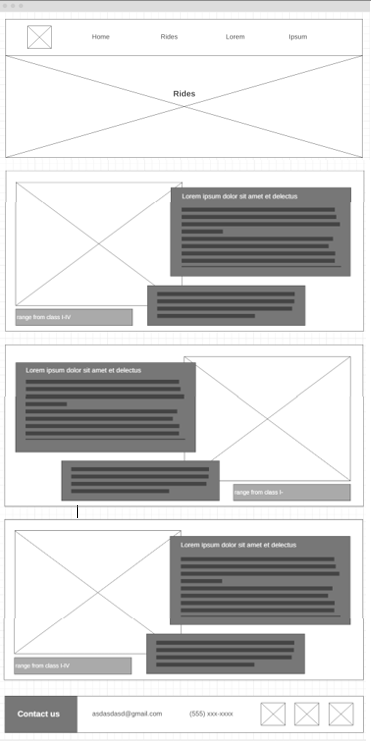
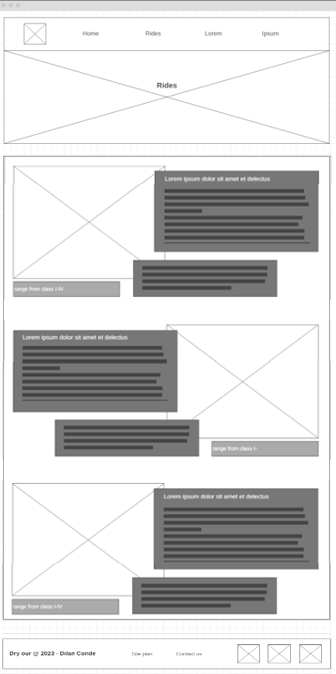
W09 Assignment: Completed Rafting Site Subpage

diff --git a/wdd130/wrr/rivers.html b/wdd130/wrr/rivers.html
@@ -1,0 +1,95 @@
+<!DOCTYPE html>
+<html lang="en">
+<head>
+    <meta charset="UTF-8">
+    <meta name="viewport" content="width=device-width, initial-scale=1.0">
+    <title>Whitewater Rafting Vacations | Dry Oar Boating | Home</title>
+    <link type="text/css" rel="stylesheet" href="styles/style.css">
+</head>
+<body>
+    <div id="content">
+        <header>
+            <a id="logo_link" href="index.html">
+                <img class="logo" src="images/logo.png" alt="Dry Oar Logo">
+            </a>
+            <nav>
+                <a href="index.html">Home</a>
+                <a href="rivers.html">Rivers</a>
+                <a href="site-plan-rafting.html">Site Plan</a>
+                <a href="contactus.html">Contact Us</a>
+            </nav>
+        </header>
+        <div id="hero">
+            <div id="hero-box">
+                <img id="hero-img" src="images/river.jpeg" alt="People enjoying rafting">
+            </div>
+            <section id="hero-msg">
+                <h1 class="home-title">RIVERS</h1>
+                <div class="button-box">
+                    <a class="book" href="contactus.html">Book Now</a>
+                </div>
+            </section>
+        </div>
+
+        <main class="rivers-grid">
+
+            <div id="idaho"></div> 
+            <img class="salmon" src="images/main-fork-of-the-salmon-river-Idaho.jpg" alt="salmon idaho">
+            <section class="a">
+                <h2>Main Fork of the Salmon River, Idaho</h2>
+                <p>The Salmon River, located deep within the Frank Church Wilderness of No Return Nature Preserve, is a place that has captivated many. Those who live near the river, known locally as the River of No Return, often find themselves so enamored with its wild beauty that they decide to stay forever. The surrounding landscape is home to herds of elk and deer, and it is not uncommon to spot bears and bighorn sheep. In addition, majestic ponderosa pines line the river, providing shade on the sandy beaches of the campgrounds and protection from sun or rain.</p>
+            </section>
+            <section class="b">
+                <p class="two">The Salmon River is one of the longest rivers in the United States that has not been interrupted by dams. Its flow varies with the seasons, being higher, faster and cooler in early summer, and lower, slower and warmer in late summer. Although the river offers exciting rapids throughout the summer, families with children often prefer the calmer, warmer waters of late summer for swimming.</p>
+            </section>
+            <section class="c">
+                <h3 class="three">The rapids range from class I to IV.</h3>
+            </section>
+
+            <div id="utah"></div> 
+            <img class="canyon" src="images/desolation-and-gray-canyon-utah.jpg" alt="canyon utah">
+            <section class="d">
+                <h2>Desolation and Gray Canyon, Utah</h2>
+                <p>The Green River, which glides through the canyons in the heart of Utah, flows through some of the most inhospitable regions in existence, until it joins the mighty Colorado River and finally the sea. This river, famous for its towering gray rock cliffs, breathtaking desert scenery and thrilling rapids, offers an 84-mile journey that stretches from Sand Wash to Swaseys Rapid, located near Green River, Utah.</p>
+            </section>
+            <section class="e">
+                <p class="two">This place is characterized by extraordinary scenery, fascinating geological formations, evidence of both prehistoric and historic human activity, and excellent opportunities for whitewater sports. Desolation Canyon has received National Monument status, a recognition that is due to its uniqueness and deep history.</p>
+            </section>
+            <section class="f">
+                <h3 class="three">Desolation is rated a Class II/III and is usually done in 6 days.</h3>
+            </section>
+
+            <div id="arizona"></div> 
+            <img class="grand" src="images/grand-canyon-arizona.jpg" alt="grand arizona">
+            <section class="g">
+                <h2>Grand Canyon, Arizona</h2>
+                <p>The Grand Canyon is considered the progenitor of all canyons and all river adventures. A visit to the Grand Canyon is an experience that will live long in your memory. Grand Canyon rafting offers a combination of thrilling whitewater and spectacular scenery, providing a once-in-a-lifetime experience. In addition to the thrilling rapids, the canyon is home to secondary canyons and ancient Indian ruins, which can only be reached by river.</p>
+            </section>
+            <section class="h">
+                <p class="two">The Grand Canyon has its own river rating scale, ranging from I - X, to reflect the diversity of its rapids. Despite this, reference is also made to the standard I - V river rating scale, which is more familiar to most people.</p>
+            </section>
+            <section class="i">
+                <h3 class="three">The rapids range from class I to X.</h3>
+            </section>
+
+        </main>
+
+        <footer>
+            <p>Dry Oar &copy; 2023 - Dilan Conde</p>
+            <p><a href="site-plan-rafting.html">Site Plan</a></p>
+            <p><a href="contactus.html">Contact Us</a></p>
+            <div class="social">
+                <a href="https://facebook.com" target="_blank">
+                    <img src="images/facebook.png" alt="fb icon">
+                </a>
+                <a href="https://twitter.com" target="_blank">
+                    <img src="images/twitter.png" alt="twitter icon">
+                </a>
+                <a href="https://instagram.com" target="_blank">
+                    <img src="images/instagram.png" alt="instagram icon">
+                </a>
+            </div>
+        </footer>
+    </div>
+</body>
+</html>

diff --git a/wdd130/wrr/styles/style.css b/wdd130/wrr/styles/style.css
@@ -69,6 +69,11 @@ h4 {
     font-size: .8em;
     padding-bottom: 15px;
 }
+.rivers-grid h3, h2 {
+    color: #14213D;
+    font-family: 'Croissant One', Georgia, serif;
+}
+
 footer a:hover {
     color: #fca311;
 }
@@ -219,6 +224,161 @@ nav {
     box-shadow: 5px 5px 10px #6f7364;
 }
 
+
+.rivers-grid {
+    display: grid;
+    grid-template-columns: repeat(20, 1fr);
+}
+
+#idaho {
+    background-color:#e5e5e5;
+    height: 800px;
+    grid-column: 1/21;
+    grid-row: 1/14;
+}
+
+.salmon {
+    width: 100%;
+    grid-column: 2/14;
+    grid-row: 2/10;
+    box-shadow: 5px 5px 10px #6f7364;
+}
+
+.a {
+    background-color:#fca311;
+    line-height: 0.9em;
+    padding: 30px;
+    grid-column: 12/20;
+    grid-row: 3/6;
+    box-shadow: 5px 5px 10px #6f7364;
+    z-index: 1;
+    color: #14213D;
+}
+
+.b {
+    background-color:#fca311;
+    line-height: 1em;
+    padding: 30px;
+    grid-column: 11/19;
+    grid-row: 7/13;
+    box-shadow: 5px 5px 10px #6f7364;
+    margin-top: 50px;
+    z-index: 1;
+    color: #14213D;
+}
+
+.c {
+    background-color:#fca311;
+    line-height: 1.5em;
+    padding: 10px;
+    grid-column: 2/10;
+    grid-row: 10/13;
+    box-shadow: 5px 5px 10px #6f7364;
+    margin-top: 20px;
+    color: #14213D;
+}
+
+
+
+
+#utah {
+    background-color:#e5e5e5;
+    height: 900px;
+    grid-column: 1/21;
+    grid-row: 15/28;
+}
+
+.canyon {
+    width: 100%;
+    grid-column: 8/20;
+    grid-row: 16/24;
+    box-shadow: 5px 5px 10px #6f7364;
+}
+
+.d {
+    background-color:#fca311;
+    line-height: 1.5em;
+    padding: 30px;
+    grid-column: 2/10;
+    grid-row: 17/20;
+    box-shadow: 5px 5px 10px #6f7364;
+    z-index: 1;
+    color: #14213D;
+}
+
+.e {
+    background-color:#fca311;
+    line-height: 1.5em;
+    padding: 30px;
+    grid-column: 3/11;
+    grid-row: 21/27;
+    box-shadow: 5px 5px 10px #6f7364;
+    margin-top: 50px;
+    z-index: 1;
+    color: #14213D;
+}
+
+.f {
+    background-color:#fca311;
+    line-height: 1.5em;
+    padding: 10px;
+    grid-column: 12/20;
+    grid-row: 24/27;
+    box-shadow: 5px 5px 10px #6f7364;
+    margin-top: 50px;
+    color: #14213D;
+}
+
+
+
+
+#arizona {
+    background-color:#e5e5e5;
+    height: 900px;
+    grid-column: 1/21;
+    grid-row: 29/42;
+}
+
+.grand {
+    width: 100%;
+    grid-column: 2/14;
+    grid-row: 30/38;
+    box-shadow: 5px 5px 10px #6f7364;
+}
+
+.g {
+    background-color:#fca311;
+    line-height: 1.2em;
+    padding: 35px;
+    grid-column: 12/20;
+    grid-row: 31/34;
+    box-shadow: 5px 5px 10px #6f7364;
+    z-index: 1;
+    color: #14213D;
+}
+
+.h {
+    background-color:#fca311;
+    line-height: 1.5em;
+    padding: 35px;
+    grid-column: 11/19;
+    grid-row: 35/41;
+    box-shadow: 5px 5px 10px #6f7364;
+    margin-top: 50px;
+    z-index: 1;
+    color: #14213D;
+}
+
+.i {
+    background-color:#fca311;
+    line-height: 1.5em;
+    padding: 10px;
+    grid-column: 2/10;
+    grid-row: 38/41;
+    box-shadow: 5px 5px 10px #6f7364;
+    margin-top: 50px;
+    color: #14213D;
+}
 
 @media screen and (max-width: 900px) {
     #hero, .home-grid {

diff --git a/wdd130/aboutme/w09-challenge.html b/wdd130/aboutme/w09-challenge.html
@@ -1,0 +1,34 @@
+<!DOCTYPE html>
+<html lang="en">
+<head>
+    <meta charset="UTF-8">
+    <meta name="viewport" content="width=device-width, initial-scale=1.0">
+    <title>w9-challenge</title>
+    <link type="text/css" rel="stylesheet" href="styles/w9-challenge.css">
+</head>
+<body>
+    <div class="post">
+        <div class="image">
+            <img src="images/w09_ice_img.jpg" alt="Bridge Image">
+        </div>
+        <div class="content">
+            <h4>3 weeks ago</h4>
+            <h2>Post Three</h2>
+            <p>
+                This would be some text to go here and definitely read this awesome article that they should tell you about.
+                This would be some text to go here and definitely read this awesome article that they should tell you about.
+            </p>
+        </div>
+        <div class="footer">
+            <span>5<sup>m</sup></span>
+            <span>2031</span>
+            <span>15</span>
+        </div>
+        <div class="s">
+            <span>READ</span>
+            <span>VIEWS</span>
+            <span>COMMENTS</span>
+        </div>
+    </div>
+</body>
+</html>

diff --git a/wdd130/wrr/site-plan-rafting.html b/wdd130/wrr/site-plan-rafting.html
@@ -93,8 +93,8 @@
         <h3>Navigation</h3>
         <!-- Think about how you want your navigation bar to look. In the site-plan.css file change the colors to your colors to get the look you desire. -->
         <nav>
-            <a href="#">Home</a>
-            <a href="#">Page2</a>
+            <a href="index.html">Home</a>
+            <a href="rivers.html">Rivers</a>
             <a href="#">Contact Us</a>
         </nav>
         <hr />
@@ -102,7 +102,7 @@
         <div class="sitemap">
             <div class="sm-home">Home</div>
             <div class="sm-page2">
-                [Page2]
+                Rivers
                 <!-- this page will have a name later -->
             </div>
             <div class="sm-page3">Contact Us</div>

diff --git a/wdd130/aboutme/styles/w9-challenge.css b/wdd130/aboutme/styles/w9-challenge.css
@@ -1,0 +1,40 @@
+body {
+    min-height: 100vh;
+    max-width: 400px;
+    background-color: white;
+    margin: 0 auto;
+}
+
+img {
+    width: 100%;
+}
+
+h2, h4, p {
+    text-align: center;
+}
+
+h4 {
+    margin-bottom: 0;
+    color: rgb(48, 83, 145);
+}
+
+h2 {
+    margin-top: 0;
+}
+
+.footer, .s {
+    display: grid;
+    grid-template-columns: 1fr 1fr 1fr;
+    background-color: rgb(48, 83, 145);
+    text-align: center;
+    color: white;
+    width: 100%;
+    height: 100%;
+}
+
+
+
+sup {
+    vertical-align: super;
+    font-size: smaller;
+}

diff --git a/wdd130/aboutme/w05-challenge.html b/wdd130/aboutme/w05-challenge.html
@@ -1,10 +1,10 @@
 <!DOCTYPE html>
 <html lang="en">
 <head>
-    <meta charset="UTF-8">
-    <meta name="viewport" content="width=device-width, initial-scale=1.0">
-    <link rel="stylesheet" href="styles/w05-challenge.css">
-    <title>W05-Challenge</title>
+        <meta charset="UTF-8">
+        <meta name="viewport" content="width=device-width, initial-scale=1.0">
+        <link rel="stylesheet" href="styles/w05-challenge.css">
+        <title>W05-Challenge</title>
 </head>
 
 <body>

diff --git a/wdd130/wrr/index.html b/wdd130/wrr/index.html
@@ -14,7 +14,7 @@
             </a>
             <nav>
                 <a href="index.html">Home</a>
-                <a href="#">Page 2</a>
+                <a href="rivers.html">Rivers</a>
                 <a href="site-plan-rafting.html">Site Plan</a>
                 <a href="contactus.html">Contact Us</a>
             </nav>
